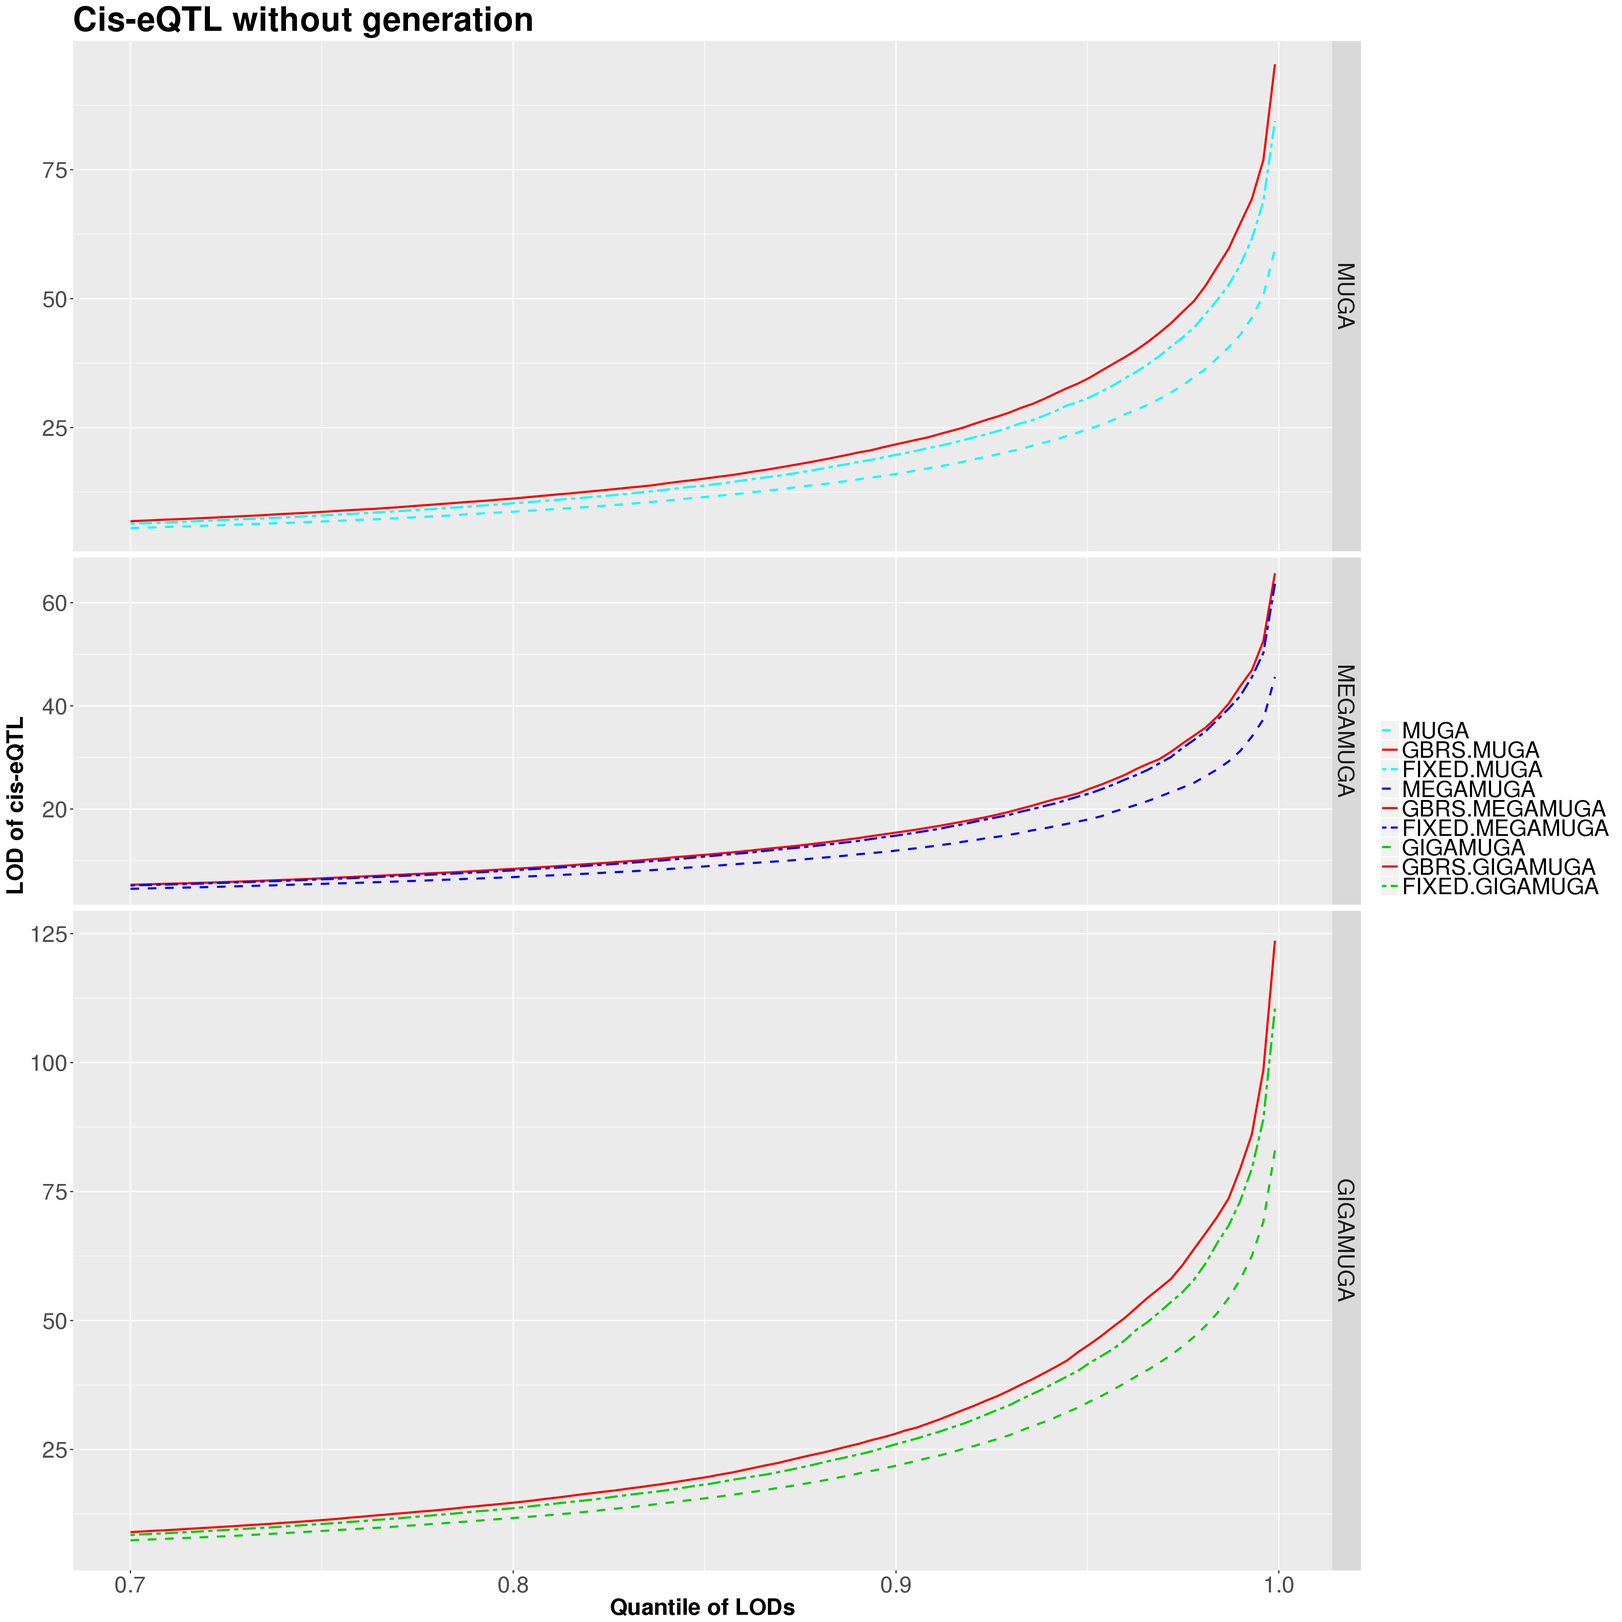
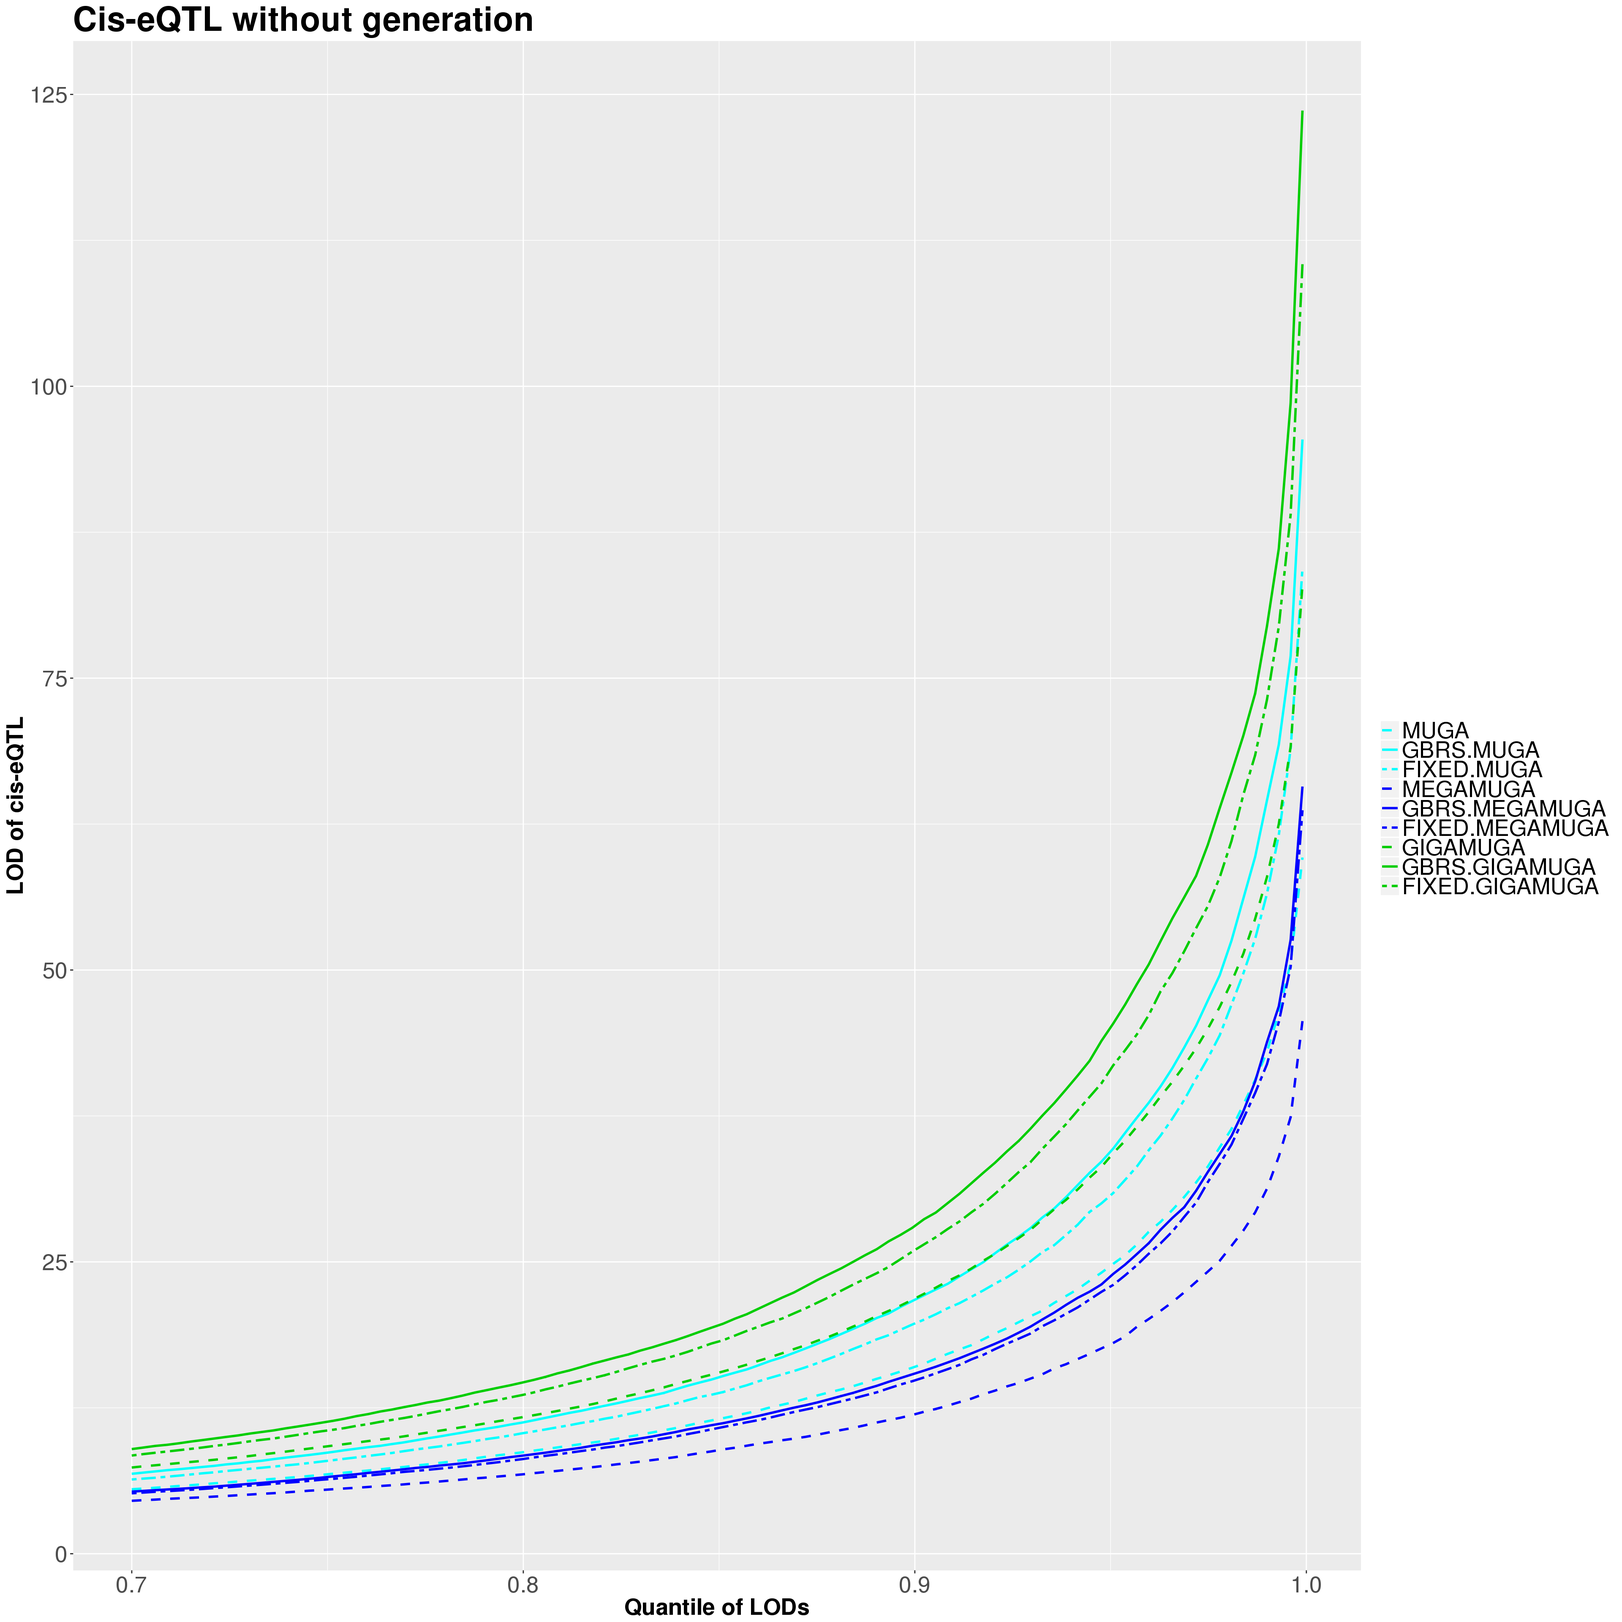
Build site.

diff --git a/docs/Figure3.html b/docs/Figure3.html
@@ -342,7 +342,7 @@ div.section {
 </details>
 </li>
 <li>
-<p><details> <summary> <strong style="color:blue;">✔</strong> <strong>Repository version:</strong> <a href="https://github.com/xhyuo/Workflowr_GBRS_array/tree/81b3dc3b560783e041c9884826ead0b57541eb33" target="_blank">81b3dc3</a> </summary></p>
+<p><details> <summary> <strong style="color:blue;">✔</strong> <strong>Repository version:</strong> <a href="https://github.com/xhyuo/Workflowr_GBRS_array/tree/18301a6a1493b2b74e6479818d0f8629cf4352ac" target="_blank">18301a6</a> </summary></p>
 Great! You are using Git for version control. Tracking code development and connecting the code version to the results is critical for reproducibility. The version displayed above was the version of the Git repository at the time these results were generated. <br><br> Note that you need to be careful to ensure that all relevant files for the analysis have been committed to Git prior to generating the results (you can use <code>wflow_publish</code> or <code>wflow_git_commit</code>). workflowr only checks the R Markdown file, but you know if there are other scripts or data files that it depends on. Below is the status of the Git repository when the results were generated:
 <pre><code>
 Ignored files:
@@ -356,6 +356,7 @@ Untracked files:
     Untracked:  output/DO_Striatum/
 
 Unstaged changes:
+    Modified:   analysis/Figure1.Rmd
     Modified:   analysis/Recombination.Rmd
     Deleted:    analysis/recombinations_in_DO_Liver_MEGAMUGA.Rmd
     Deleted:    analysis/recombinations_in_DO_Liver_MUGA.Rmd
@@ -387,6 +388,40 @@ Message
 </tr>
 </thead>
 <tbody>
+<tr>
+<td style="text-align:left;">
+Rmd
+</td>
+<td style="text-align:left;">
+<a href="https://github.com/xhyuo/Workflowr_GBRS_array/blob/18301a6a1493b2b74e6479818d0f8629cf4352ac/analysis/Figure3.Rmd" target="_blank">18301a6</a>
+</td>
+<td style="text-align:left;">
+xhyuo
+</td>
+<td style="text-align:left;">
+2018-12-17
+</td>
+<td style="text-align:left;">
+Figure3
+</td>
+</tr>
+<tr>
+<td style="text-align:left;">
+html
+</td>
+<td style="text-align:left;">
+<a href="https://cdn.rawgit.com/xhyuo/Workflowr_GBRS_array/4c2fc6c16d4adfe45c61f569616546f0af4c8555/docs/Figure3.html" target="_blank">4c2fc6c</a>
+</td>
+<td style="text-align:left;">
+xhyuo
+</td>
+<td style="text-align:left;">
+2018-12-17
+</td>
+<td style="text-align:left;">
+Build site.
+</td>
+</tr>
 <tr>
 <td style="text-align:left;">
 Rmd
@@ -523,18 +558,15 @@ cislod.plot$sub.array &lt;- as.factor(cislod.plot$sub.array)
 # MEGAMUGA &lt;- &quot;blue&quot;,
 # GIGAMUGA &lt;- &quot;green3&quot;
 p &lt;- ggplot(data=cislod.plot, aes(x=qgrid, y = quantile.cislod)) + 
-  geom_line(aes(linetype=sub.array,color=sub.array), size = 0.9) +
-  scale_color_manual(values=c(&quot;cyan&quot;,&quot;red&quot;, &quot;cyan&quot;, &quot;blue&quot;, &quot;red&quot;, &quot;blue&quot;, &quot;green3&quot;,&quot;red&quot;,&quot;green3&quot;)) +
+  geom_line(aes(linetype=sub.array,color=sub.array), size = 1) +
+  scale_color_manual(values=c(&quot;cyan&quot;,&quot;cyan&quot;, &quot;cyan&quot;, &quot;blue&quot;, &quot;blue&quot;, &quot;blue&quot;, &quot;green3&quot;,&quot;green3&quot;,&quot;green3&quot;)) +
   scale_linetype_manual(values= rep(c(&quot;dashed&quot;,&quot;solid&quot;,&quot;twodash&quot;), times = 3))+
   xlab(&quot;Quantile of LODs&quot;) +
   ylab(&quot;LOD of cis-eQTL&quot;) +
   ggtitle(&quot;Cis-eQTL without generation&quot;) + 
   #scale_y_continuous(limits=c(0, 120)) +
   theme(legend.title=element_blank(), legend.text=element_text(size=20), plot.title = element_text(size = 30, face = &quot;bold&quot;)) +
-  theme(axis.text=element_text(size=20),axis.title=element_text(size=20,face=&quot;bold&quot;),
-        strip.text = element_text(size = 20)) +
-  facet_grid(array ~ ., scales=&quot;free&quot;, space=&quot;free&quot;)
-#facet_grid(.~array, scales=&quot;free&quot;, space=&quot;free&quot;)
+  theme(axis.text=element_text(size=20),axis.title=element_text(size=20,face=&quot;bold&quot;))
 p</code></pre>
 <p><img src="figure/Figure3.Rmd/Figure%203%20Cis-eQTL-1.png" width="1920" style="display: block; margin: auto;" /></p>
 <details> <summary><em>Expand here to see past versions of Figure 3 Cis-eQTL-1.png:</em></summary>
@@ -556,6 +588,52 @@ Date
 <tr>
 <td style="text-align:left;">
 <a href="https://github.com/xhyuo/Workflowr_GBRS_array/blob/d3e956c8d8b3d844496ba6404c5a7cb1ff83bec5/docs/figure/Figure3.Rmd/Figure 3 Cis-eQTL-1.png" target="_blank">d3e956c</a>
+</td>
+<td style="text-align:left;">
+xhyuo
+</td>
+<td style="text-align:left;">
+2018-12-17
+</td>
+</tr>
+</tbody>
+</table>
+<p></details></p>
+<pre class="r"><code>
+p &lt;- ggplot(data=cislod.plot, aes(x=qgrid, y = quantile.cislod)) + 
+  geom_line(aes(linetype=sub.array,color=sub.array), size = 1) +
+  scale_color_manual(values=c(&quot;cyan&quot;,&quot;red&quot;, &quot;cyan&quot;, &quot;blue&quot;, &quot;red&quot;, &quot;blue&quot;, &quot;green3&quot;,&quot;red&quot;,&quot;green3&quot;)) +
+  scale_linetype_manual(values= rep(c(&quot;dashed&quot;,&quot;solid&quot;,&quot;twodash&quot;), times = 3))+
+  xlab(&quot;Quantile of LODs&quot;) +
+  ylab(&quot;LOD of cis-eQTL&quot;) +
+  ggtitle(&quot;Cis-eQTL without generation&quot;) + 
+  #scale_y_continuous(limits=c(0, 120)) +
+  theme(legend.title=element_blank(), legend.text=element_text(size=20), plot.title = element_text(size = 30, face = &quot;bold&quot;)) +
+  theme(axis.text=element_text(size=20),axis.title=element_text(size=20,face=&quot;bold&quot;),
+        strip.text = element_text(size = 20)) +
+  facet_grid(array ~ ., scales=&quot;free&quot;, space=&quot;free&quot;)
+#facet_grid(.~array, scales=&quot;free&quot;, space=&quot;free&quot;)
+p</code></pre>
+<p><img src="figure/Figure3.Rmd/Figure%203%20Cis-eQTL-2.png" width="1920" style="display: block; margin: auto;" /></p>
+<details> <summary><em>Expand here to see past versions of Figure 3 Cis-eQTL-2.png:</em></summary>
+<table style="border-collapse:separate; border-spacing:5px;">
+<thead>
+<tr>
+<th style="text-align:left;">
+Version
+</th>
+<th style="text-align:left;">
+Author
+</th>
+<th style="text-align:left;">
+Date
+</th>
+</tr>
+</thead>
+<tbody>
+<tr>
+<td style="text-align:left;">
+<a href="https://github.com/xhyuo/Workflowr_GBRS_array/blob/d3e956c8d8b3d844496ba6404c5a7cb1ff83bec5/docs/figure/Figure3.Rmd/Figure 3 Cis-eQTL-2.png" target="_blank">d3e956c</a>
 </td>
 <td style="text-align:left;">
 xhyuo
@@ -617,7 +695,20 @@ cislod.plot$sub.array &lt;- as.factor(cislod.plot$sub.array)
 # MEGAMUGA &lt;- &quot;blue&quot;,
 # GIGAMUGA &lt;- &quot;green3&quot;
 p &lt;- ggplot(data=cislod.plot, aes(x=qgrid, y = quantile.cislod)) + 
-  geom_line(aes(linetype=sub.array,color=sub.array), size = 0.9) +
+  geom_line(aes(linetype=sub.array,color=sub.array), size = 1) +
+  scale_color_manual(values=c(&quot;cyan&quot;,&quot;cyan&quot;, &quot;cyan&quot;, &quot;blue&quot;, &quot;blue&quot;, &quot;blue&quot;, &quot;green3&quot;,&quot;green3&quot;,&quot;green3&quot;)) +
+  scale_linetype_manual(values= rep(c(&quot;dashed&quot;,&quot;solid&quot;,&quot;twodash&quot;), times = 3))+
+  xlab(&quot;Quantile of LODs&quot;) +
+  ylab(&quot;LOD of cis-eQTL&quot;) +
+  ggtitle(&quot;Cis-eQTL with generation&quot;) + 
+  #scale_y_continuous(limits=c(0, 120)) +
+  theme(legend.title=element_blank(), legend.text=element_text(size=20), plot.title = element_text(size = 30, face = &quot;bold&quot;)) +
+  theme(axis.text=element_text(size=20),axis.title=element_text(size=20,face=&quot;bold&quot;))
+p</code></pre>
+<p><img src="figure/Figure3.Rmd/Figure%203%20Cis-eQTL-3.png" width="1920" style="display: block; margin: auto;" /></p>
+<pre class="r"><code>
+p &lt;- ggplot(data=cislod.plot, aes(x=qgrid, y = quantile.cislod)) + 
+  geom_line(aes(linetype=sub.array,color=sub.array), size = 1) +
   scale_color_manual(values=c(&quot;cyan&quot;,&quot;red&quot;, &quot;cyan&quot;, &quot;blue&quot;, &quot;red&quot;, &quot;blue&quot;, &quot;green3&quot;,&quot;red&quot;,&quot;green3&quot;)) +
   scale_linetype_manual(values= rep(c(&quot;dashed&quot;,&quot;solid&quot;,&quot;twodash&quot;), times = 3))+
   xlab(&quot;Quantile of LODs&quot;) +
@@ -630,37 +721,7 @@ p &lt;- ggplot(data=cislod.plot, aes(x=qgrid, y = quantile.cislod)) +
   facet_grid(array ~ ., scales=&quot;free&quot;, space=&quot;free&quot;)
 #facet_grid(.~array, scales=&quot;free&quot;, space=&quot;free&quot;)
 p</code></pre>
-<p><img src="figure/Figure3.Rmd/Figure%203%20Cis-eQTL-2.png" width="1920" style="display: block; margin: auto;" /></p>
-<details> <summary><em>Expand here to see past versions of Figure 3 Cis-eQTL-2.png:</em></summary>
-<table style="border-collapse:separate; border-spacing:5px;">
-<thead>
-<tr>
-<th style="text-align:left;">
-Version
-</th>
-<th style="text-align:left;">
-Author
-</th>
-<th style="text-align:left;">
-Date
-</th>
-</tr>
-</thead>
-<tbody>
-<tr>
-<td style="text-align:left;">
-<a href="https://github.com/xhyuo/Workflowr_GBRS_array/blob/d3e956c8d8b3d844496ba6404c5a7cb1ff83bec5/docs/figure/Figure3.Rmd/Figure 3 Cis-eQTL-2.png" target="_blank">d3e956c</a>
-</td>
-<td style="text-align:left;">
-xhyuo
-</td>
-<td style="text-align:left;">
-2018-12-17
-</td>
-</tr>
-</tbody>
-</table>
-<p></details></p>
+<p><img src="figure/Figure3.Rmd/Figure%203%20Cis-eQTL-4.png" width="1920" style="display: block; margin: auto;" /></p>
 </div>
 <div id="figure-3-trans-eqtl" class="section level1">
 <h1>Figure 3, Trans-eQTL</h1>
@@ -746,7 +807,7 @@ xhyuo
 </tbody>
 </table>
 <p></details></p>
-<pre><code># (polygon[GRID.polygon.347], polygon[GRID.polygon.348], polygon[GRID.polygon.349], polygon[GRID.polygon.350], polygon[GRID.polygon.351], polygon[GRID.polygon.352], text[GRID.text.353], text[GRID.text.354], text[GRID.text.355], text[GRID.text.356], text[GRID.text.357], text[GRID.text.358], text[GRID.text.359], text[GRID.text.360], text[GRID.text.361], text[GRID.text.362])
+<pre><code># (polygon[GRID.polygon.529], polygon[GRID.polygon.530], polygon[GRID.polygon.531], polygon[GRID.polygon.532], polygon[GRID.polygon.533], polygon[GRID.polygon.534], text[GRID.text.535], text[GRID.text.536], text[GRID.text.537], text[GRID.text.538], text[GRID.text.539], text[GRID.text.540], text[GRID.text.541], text[GRID.text.542], text[GRID.text.543], text[GRID.text.544])
 
 #MEGAMUGA
 grid.newpage()
@@ -790,7 +851,7 @@ xhyuo
 </tbody>
 </table>
 <p></details></p>
-<pre><code># (polygon[GRID.polygon.363], polygon[GRID.polygon.364], polygon[GRID.polygon.365], polygon[GRID.polygon.366], polygon[GRID.polygon.367], polygon[GRID.polygon.368], text[GRID.text.369], text[GRID.text.370], text[GRID.text.371], text[GRID.text.372], text[GRID.text.373], text[GRID.text.374], text[GRID.text.375], text[GRID.text.376], text[GRID.text.377], text[GRID.text.378])
+<pre><code># (polygon[GRID.polygon.545], polygon[GRID.polygon.546], polygon[GRID.polygon.547], polygon[GRID.polygon.548], polygon[GRID.polygon.549], polygon[GRID.polygon.550], text[GRID.text.551], text[GRID.text.552], text[GRID.text.553], text[GRID.text.554], text[GRID.text.555], text[GRID.text.556], text[GRID.text.557], text[GRID.text.558], text[GRID.text.559], text[GRID.text.560])
 
 #GIGAMUGA
 grid.newpage()
@@ -834,7 +895,7 @@ xhyuo
 </tbody>
 </table>
 <p></details></p>
-<pre><code># (polygon[GRID.polygon.379], polygon[GRID.polygon.380], polygon[GRID.polygon.381], polygon[GRID.polygon.382], polygon[GRID.polygon.383], polygon[GRID.polygon.384], text[GRID.text.385], text[GRID.text.386], text[GRID.text.387], text[GRID.text.388], text[GRID.text.389], text[GRID.text.390], text[GRID.text.391], text[GRID.text.392], text[GRID.text.393], text[GRID.text.394])</code></pre>
+<pre><code># (polygon[GRID.polygon.561], polygon[GRID.polygon.562], polygon[GRID.polygon.563], polygon[GRID.polygon.564], polygon[GRID.polygon.565], polygon[GRID.polygon.566], text[GRID.text.567], text[GRID.text.568], text[GRID.text.569], text[GRID.text.570], text[GRID.text.571], text[GRID.text.572], text[GRID.text.573], text[GRID.text.574], text[GRID.text.575], text[GRID.text.576])</code></pre>
 <div id="session-information" class="section level2">
 <h2>Session information</h2>
 <pre class="r"><code>sessionInfo()

diff --git a/docs/license.html b/docs/license.html
@@ -225,7 +225,7 @@ div.section {
 </details>
 </li>
 <li>
-<p><details> <summary> <strong style="color:blue;">✔</strong> <strong>Repository version:</strong> <a href="https://github.com/xhyuo/Workflowr_GBRS_array/tree/81b3dc3b560783e041c9884826ead0b57541eb33" target="_blank">81b3dc3</a> </summary></p>
+<p><details> <summary> <strong style="color:blue;">✔</strong> <strong>Repository version:</strong> <a href="https://github.com/xhyuo/Workflowr_GBRS_array/tree/18301a6a1493b2b74e6479818d0f8629cf4352ac" target="_blank">18301a6</a> </summary></p>
 Great! You are using Git for version control. Tracking code development and connecting the code version to the results is critical for reproducibility. The version displayed above was the version of the Git repository at the time these results were generated. <br><br> Note that you need to be careful to ensure that all relevant files for the analysis have been committed to Git prior to generating the results (you can use <code>wflow_publish</code> or <code>wflow_git_commit</code>). workflowr only checks the R Markdown file, but you know if there are other scripts or data files that it depends on. Below is the status of the Git repository when the results were generated:
 <pre><code>
 Ignored files:
@@ -239,6 +239,7 @@ Untracked files:
     Untracked:  output/DO_Striatum/
 
 Unstaged changes:
+    Modified:   analysis/Figure1.Rmd
     Modified:   analysis/Recombination.Rmd
     Deleted:    analysis/recombinations_in_DO_Liver_MEGAMUGA.Rmd
     Deleted:    analysis/recombinations_in_DO_Liver_MUGA.Rmd
@@ -270,6 +271,23 @@ Message
 </tr>
 </thead>
 <tbody>
+<tr>
+<td style="text-align:left;">
+html
+</td>
+<td style="text-align:left;">
+<a href="https://cdn.rawgit.com/xhyuo/Workflowr_GBRS_array/4c2fc6c16d4adfe45c61f569616546f0af4c8555/docs/license.html" target="_blank">4c2fc6c</a>
+</td>
+<td style="text-align:left;">
+xhyuo
+</td>
+<td style="text-align:left;">
+2018-12-17
+</td>
+<td style="text-align:left;">
+Build site.
+</td>
+</tr>
 <tr>
 <td style="text-align:left;">
 html

diff --git a/docs/about.html b/docs/about.html
@@ -225,7 +225,7 @@ div.section {
 </details>
 </li>
 <li>
-<p><details> <summary> <strong style="color:blue;">✔</strong> <strong>Repository version:</strong> <a href="https://github.com/xhyuo/Workflowr_GBRS_array/tree/81b3dc3b560783e041c9884826ead0b57541eb33" target="_blank">81b3dc3</a> </summary></p>
+<p><details> <summary> <strong style="color:blue;">✔</strong> <strong>Repository version:</strong> <a href="https://github.com/xhyuo/Workflowr_GBRS_array/tree/18301a6a1493b2b74e6479818d0f8629cf4352ac" target="_blank">18301a6</a> </summary></p>
 Great! You are using Git for version control. Tracking code development and connecting the code version to the results is critical for reproducibility. The version displayed above was the version of the Git repository at the time these results were generated. <br><br> Note that you need to be careful to ensure that all relevant files for the analysis have been committed to Git prior to generating the results (you can use <code>wflow_publish</code> or <code>wflow_git_commit</code>). workflowr only checks the R Markdown file, but you know if there are other scripts or data files that it depends on. Below is the status of the Git repository when the results were generated:
 <pre><code>
 Ignored files:
@@ -239,6 +239,7 @@ Untracked files:
     Untracked:  output/DO_Striatum/
 
 Unstaged changes:
+    Modified:   analysis/Figure1.Rmd
     Modified:   analysis/Recombination.Rmd
     Deleted:    analysis/recombinations_in_DO_Liver_MEGAMUGA.Rmd
     Deleted:    analysis/recombinations_in_DO_Liver_MUGA.Rmd
@@ -270,6 +271,23 @@ Message
 </tr>
 </thead>
 <tbody>
+<tr>
+<td style="text-align:left;">
+html
+</td>
+<td style="text-align:left;">
+<a href="https://cdn.rawgit.com/xhyuo/Workflowr_GBRS_array/4c2fc6c16d4adfe45c61f569616546f0af4c8555/docs/about.html" target="_blank">4c2fc6c</a>
+</td>
+<td style="text-align:left;">
+xhyuo
+</td>
+<td style="text-align:left;">
+2018-12-17
+</td>
+<td style="text-align:left;">
+Build site.
+</td>
+</tr>
 <tr>
 <td style="text-align:left;">
 html

diff --git a/docs/index.html b/docs/index.html
@@ -225,7 +225,7 @@ div.section {
 </details>
 </li>
 <li>
-<p><details> <summary> <strong style="color:blue;">✔</strong> <strong>Repository version:</strong> <a href="https://github.com/xhyuo/Workflowr_GBRS_array/tree/81b3dc3b560783e041c9884826ead0b57541eb33" target="_blank">81b3dc3</a> </summary></p>
+<p><details> <summary> <strong style="color:blue;">✔</strong> <strong>Repository version:</strong> <a href="https://github.com/xhyuo/Workflowr_GBRS_array/tree/18301a6a1493b2b74e6479818d0f8629cf4352ac" target="_blank">18301a6</a> </summary></p>
 Great! You are using Git for version control. Tracking code development and connecting the code version to the results is critical for reproducibility. The version displayed above was the version of the Git repository at the time these results were generated. <br><br> Note that you need to be careful to ensure that all relevant files for the analysis have been committed to Git prior to generating the results (you can use <code>wflow_publish</code> or <code>wflow_git_commit</code>). workflowr only checks the R Markdown file, but you know if there are other scripts or data files that it depends on. Below is the status of the Git repository when the results were generated:
 <pre><code>
 Ignored files:
@@ -239,6 +239,7 @@ Untracked files:
     Untracked:  output/DO_Striatum/
 
 Unstaged changes:
+    Modified:   analysis/Figure1.Rmd
     Modified:   analysis/Recombination.Rmd
     Deleted:    analysis/recombinations_in_DO_Liver_MEGAMUGA.Rmd
     Deleted:    analysis/recombinations_in_DO_Liver_MUGA.Rmd
@@ -270,6 +271,23 @@ Message
 </tr>
 </thead>
 <tbody>
+<tr>
+<td style="text-align:left;">
+html
+</td>
+<td style="text-align:left;">
+<a href="https://cdn.rawgit.com/xhyuo/Workflowr_GBRS_array/4c2fc6c16d4adfe45c61f569616546f0af4c8555/docs/index.html" target="_blank">4c2fc6c</a>
+</td>
+<td style="text-align:left;">
+xhyuo
+</td>
+<td style="text-align:left;">
+2018-12-17
+</td>
+<td style="text-align:left;">
+Build site.
+</td>
+</tr>
 <tr>
 <td style="text-align:left;">
 html
